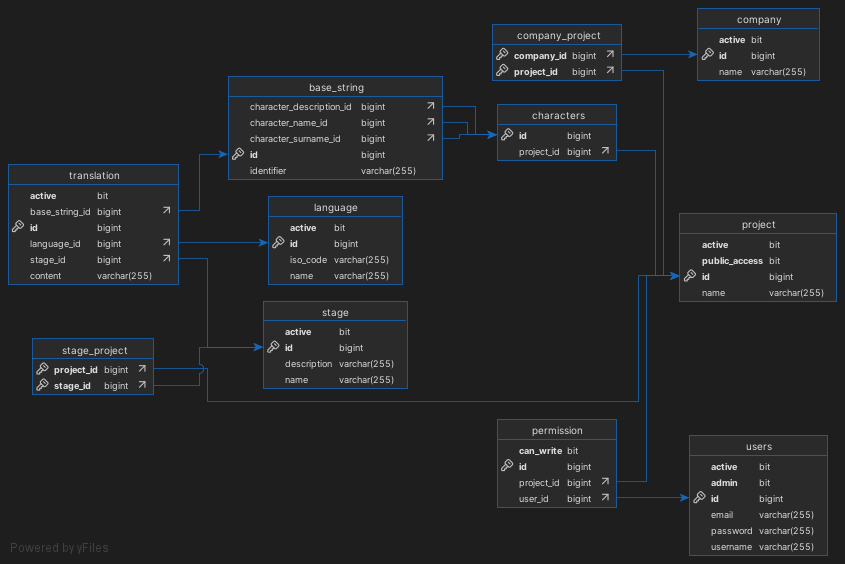
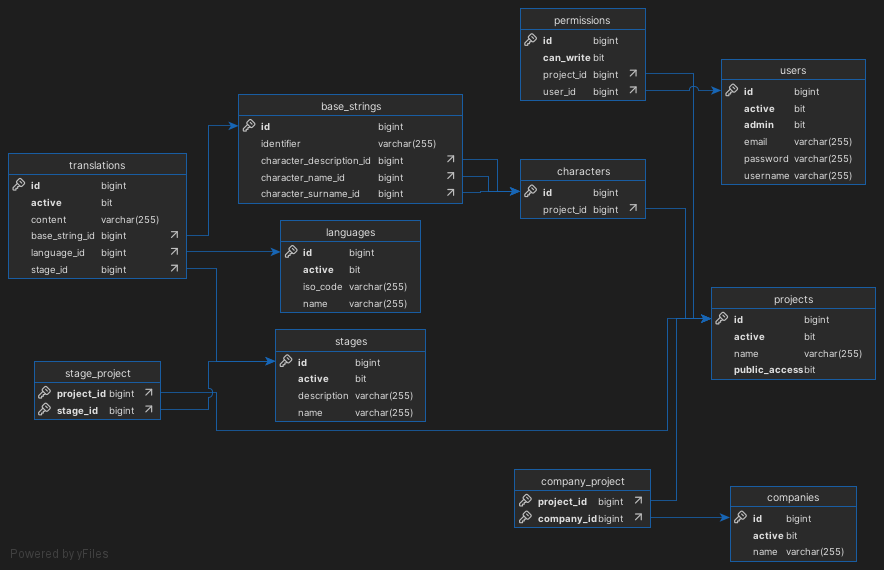
Update database's tables

diff --git a/src/main/java/io/github/cafeteru/dialoguesOfFantasy/model/Translation.java b/src/main/java/io/github/cafeteru/dialoguesOfFantasy/model/Translation.java
@@ -12,6 +12,7 @@ import lombok.NoArgsConstructor;
 @Data
 @Entity
 @NoArgsConstructor
+@Table(name = "translations")
 public class Translation {
     @Id
     @GeneratedValue(strategy = GenerationType.IDENTITY)

diff --git a/src/main/java/io/github/cafeteru/dialoguesOfFantasy/model/Permission.java b/src/main/java/io/github/cafeteru/dialoguesOfFantasy/model/Permission.java
@@ -11,6 +11,7 @@ import lombok.NoArgsConstructor;
 @Data
 @Entity
 @NoArgsConstructor
+@Table(name = "permissions")
 public class Permission {
     @Id
     @GeneratedValue(strategy = GenerationType.IDENTITY)

diff --git a/src/main/java/io/github/cafeteru/dialoguesOfFantasy/model/BaseString.java b/src/main/java/io/github/cafeteru/dialoguesOfFantasy/model/BaseString.java
@@ -14,6 +14,7 @@ import java.util.Set;
 @Data
 @Entity
 @NoArgsConstructor
+@Table(name = "base_strings")
 public class BaseString {
     @Id
     @GeneratedValue(strategy = GenerationType.IDENTITY)

diff --git a/src/main/java/io/github/cafeteru/dialoguesOfFantasy/model/Language.java b/src/main/java/io/github/cafeteru/dialoguesOfFantasy/model/Language.java
@@ -14,6 +14,7 @@ import java.util.Set;
 @Data
 @Entity
 @NoArgsConstructor
+@Table(name = "languages")
 public class Language {
     @Id
     @GeneratedValue(strategy = GenerationType.IDENTITY)

diff --git a/src/main/java/io/github/cafeteru/dialoguesOfFantasy/model/Company.java b/src/main/java/io/github/cafeteru/dialoguesOfFantasy/model/Company.java
@@ -14,6 +14,7 @@ import java.util.Set;
 @Data
 @Entity
 @NoArgsConstructor
+@Table(name = "companies")
 public class Company {
     @Id
     @GeneratedValue(strategy = GenerationType.IDENTITY)

diff --git a/src/main/java/io/github/cafeteru/dialoguesOfFantasy/model/Project.java b/src/main/java/io/github/cafeteru/dialoguesOfFantasy/model/Project.java
@@ -14,6 +14,7 @@ import java.util.Set;
 @Data
 @Entity
 @NoArgsConstructor
+@Table(name = "projects")
 public class Project {
     @Id
     @GeneratedValue(strategy = GenerationType.IDENTITY)

diff --git a/src/main/java/io/github/cafeteru/dialoguesOfFantasy/model/Stage.java b/src/main/java/io/github/cafeteru/dialoguesOfFantasy/model/Stage.java
@@ -14,6 +14,7 @@ import java.util.Set;
 @Data
 @Entity
 @NoArgsConstructor
+@Table(name = "stages")
 public class Stage {
     @Id
     @GeneratedValue(strategy = GenerationType.IDENTITY)
